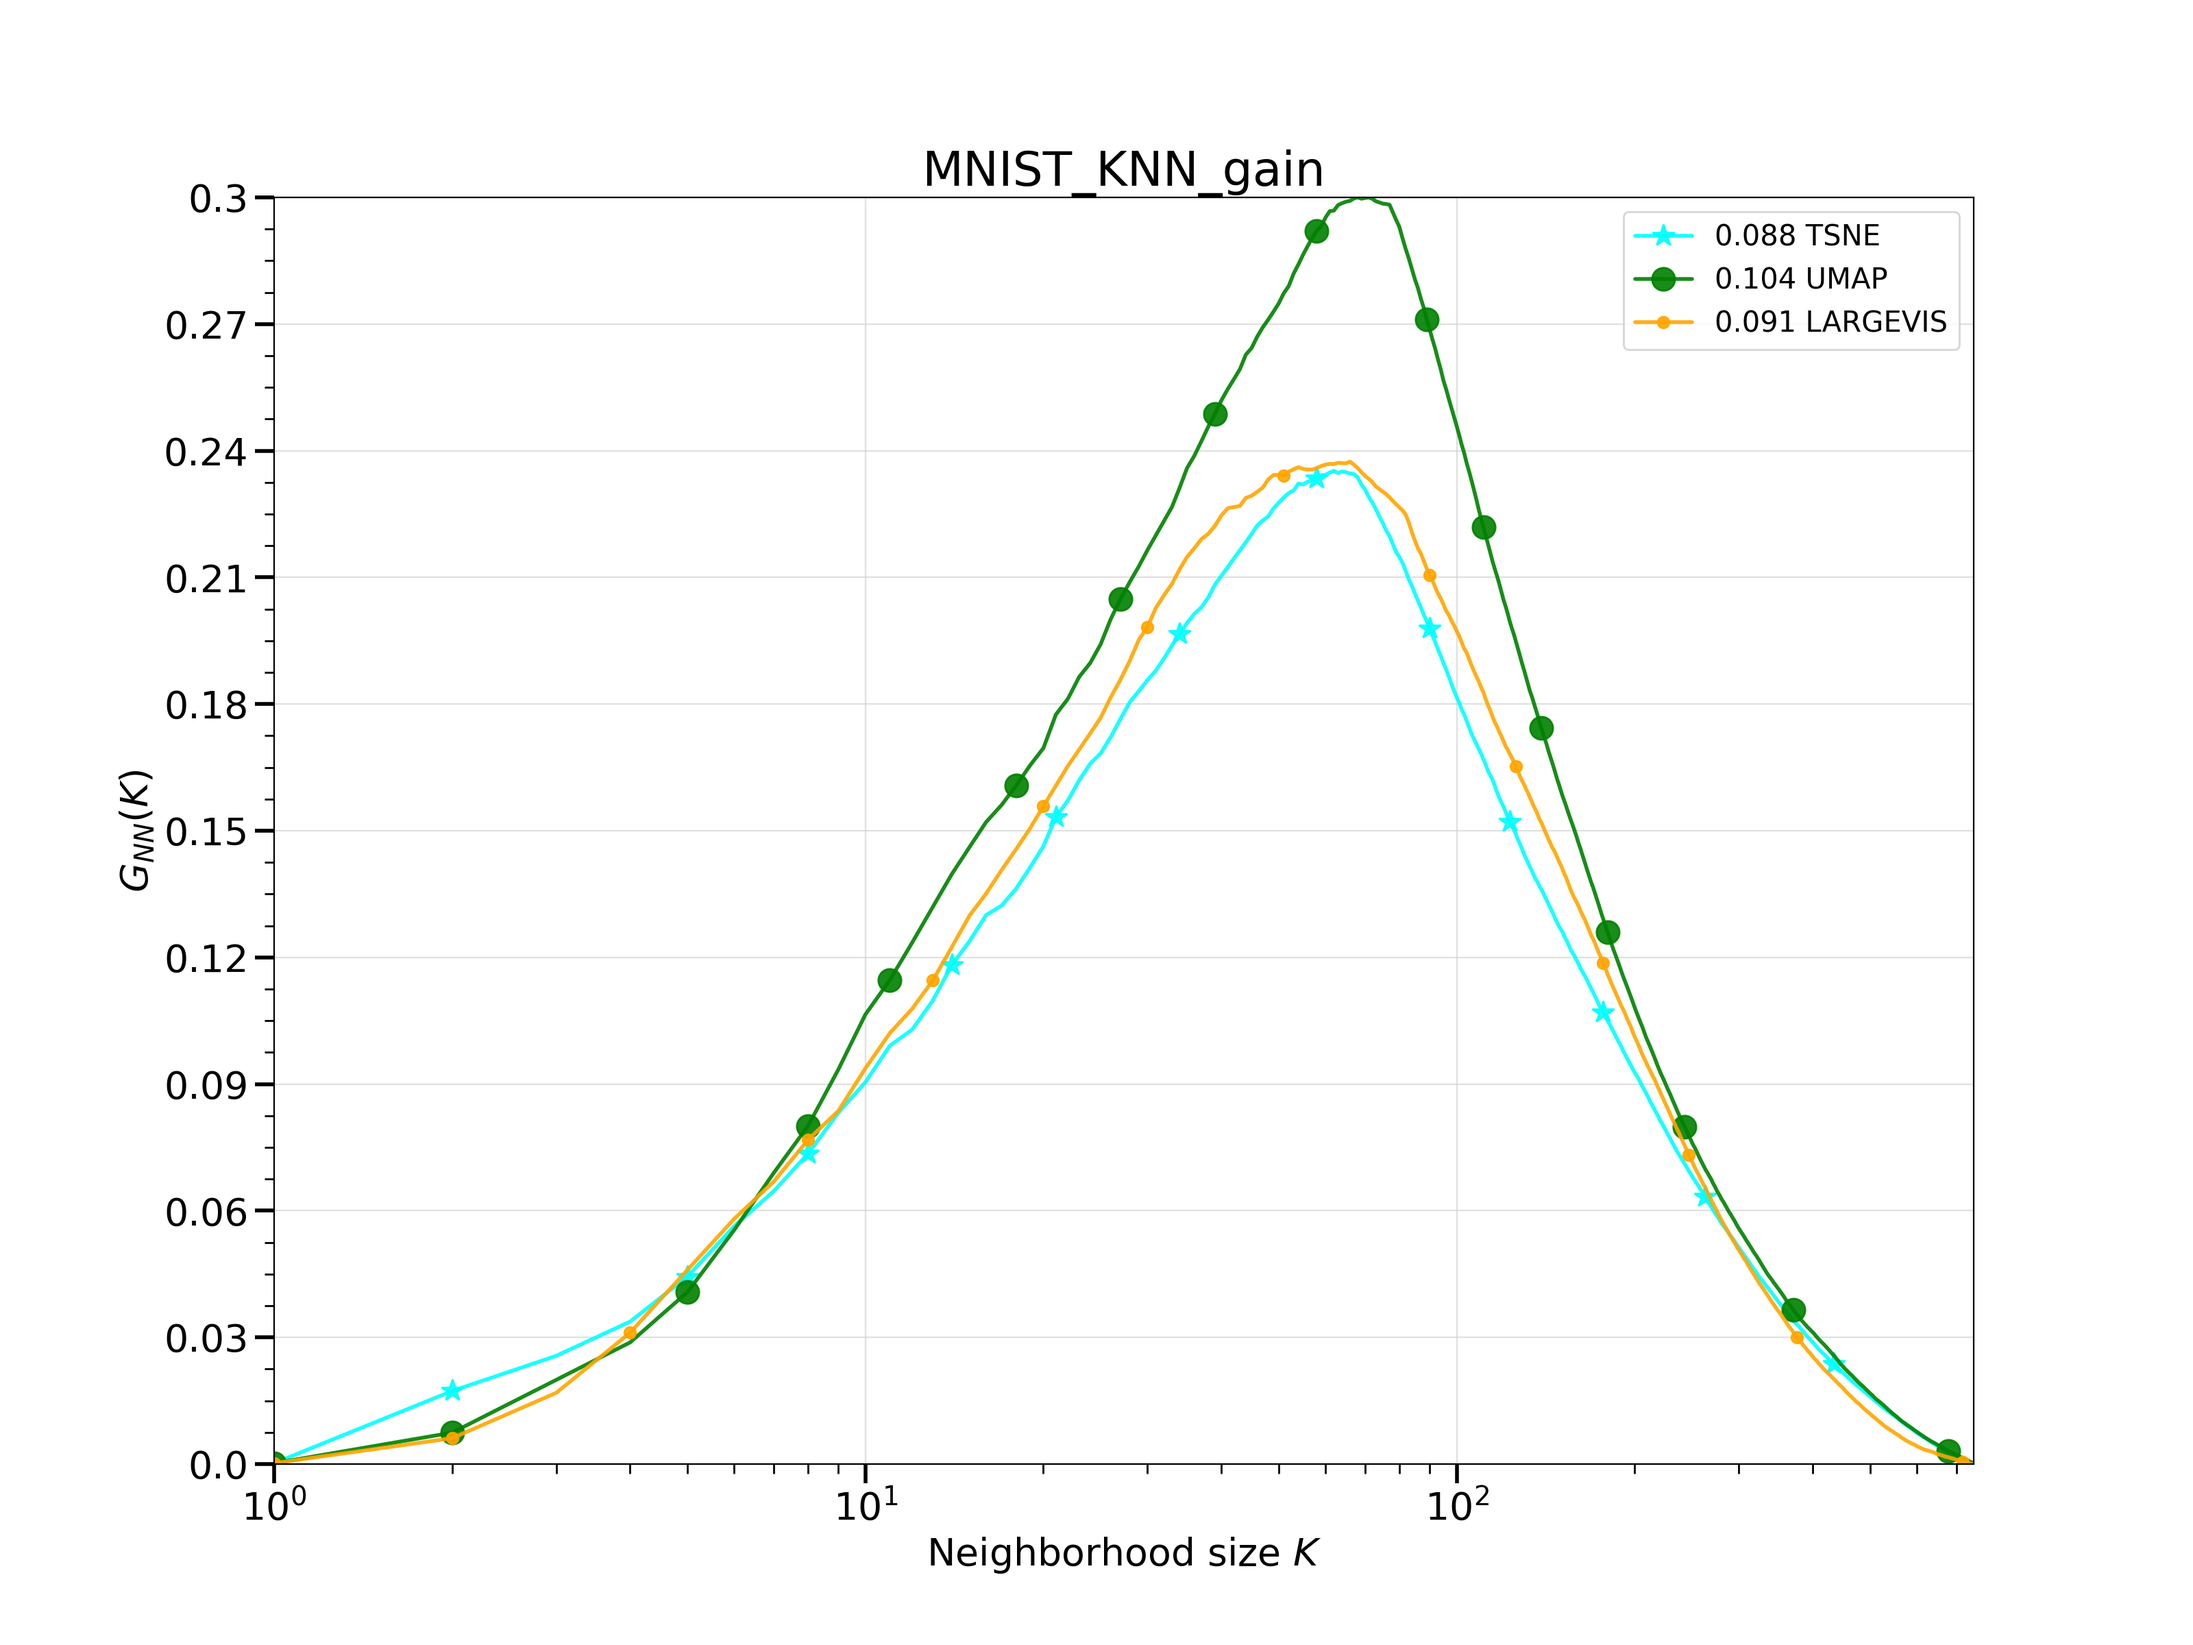
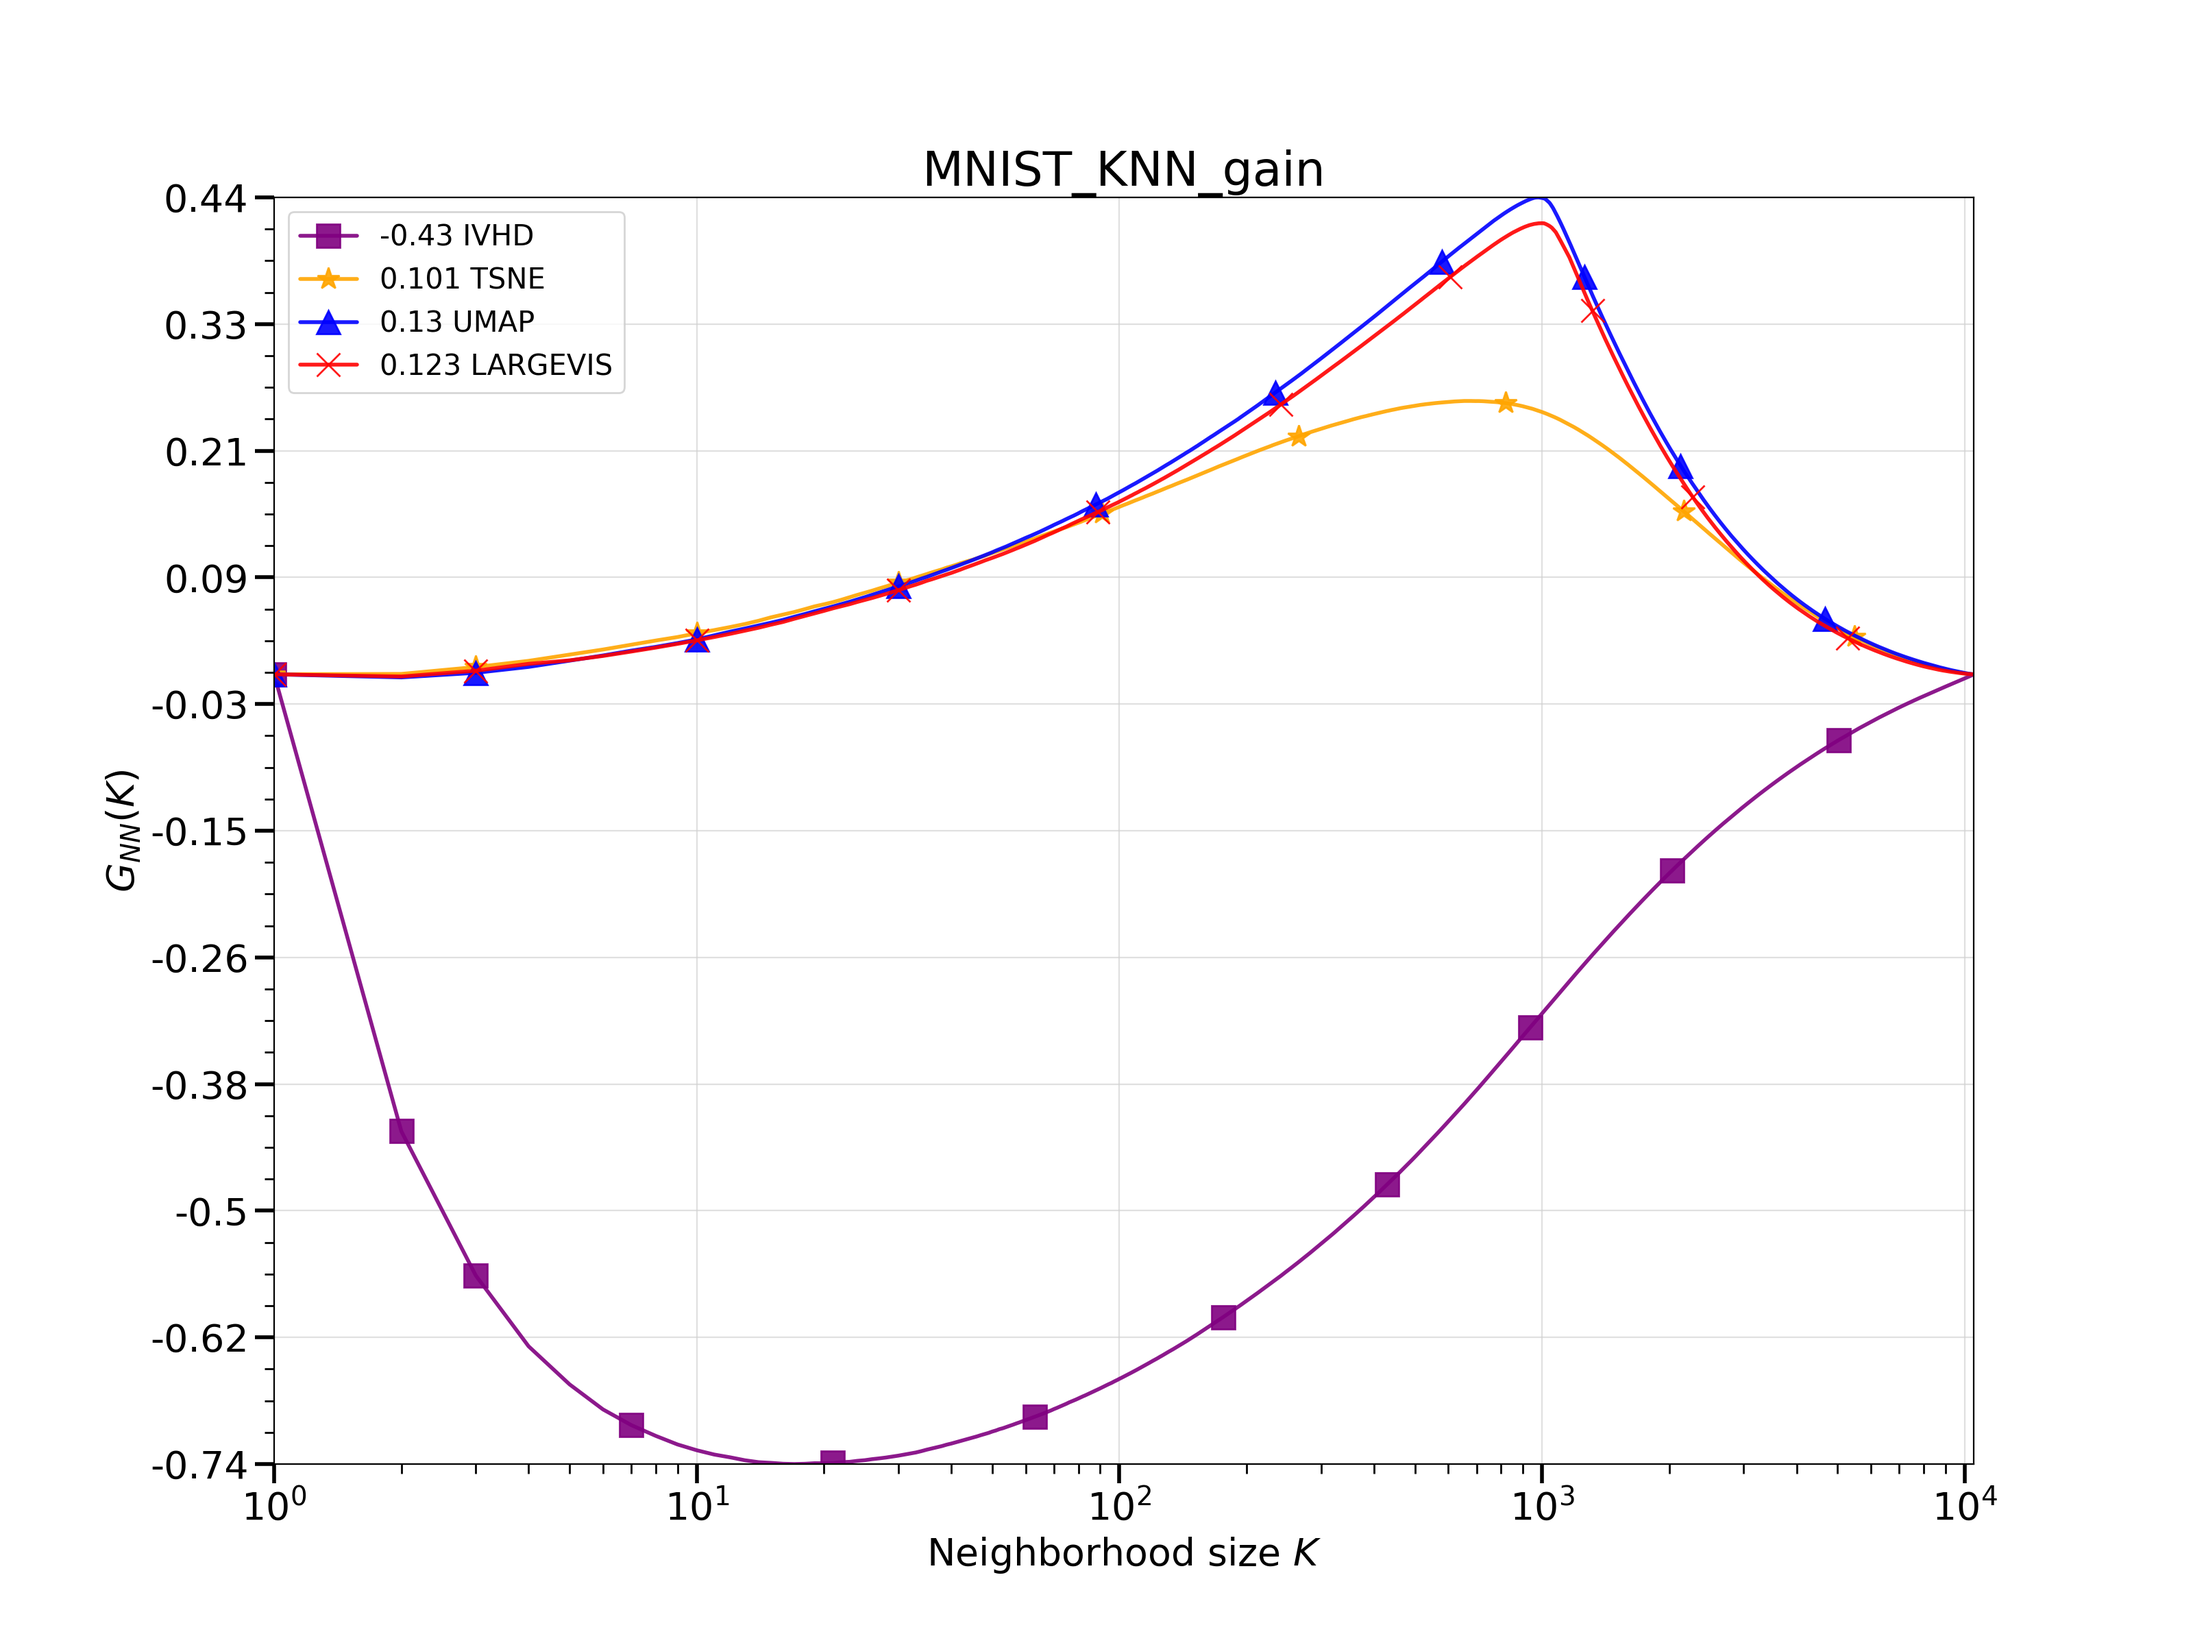
ADD: Reuters dataset & IVHD metric (#6)
* ADD: Reuters dataset & fix local metric

* ADD: Reuters & IVHD, fix cluster metric

* REFACTOR

* Fix: broken import

* ADD: ALl methods run on the whole mnist

diff --git a/bin/data_embedding/ivhd.py b/bin/data_embedding/ivhd.py
@@ -1,5 +1,58 @@
+import utils
+import pandas as pd
+import os
+
+def save_data_as_csv(data, filename):
+    with open(filename, 'w') as f:
+        f.truncate(0)
+        for i in range(1, data.shape[1] + 1):
+            f.write(f'{str(i)}')
+            if i != data.shape[1]:
+                f.write(',')
+        f.write('\n')
+        for idx_sample, sample in enumerate(data):
+            for idx, value in enumerate(sample):
+                f.write(f'{str(value)}')
+                if idx != len(sample) - 1:
+                    f.write(',')
+            if idx_sample != len(data) - 1:
+                f.write('\n')
+
+
+def save_target_as_csv(data, filename, with_shape=True):
+    with open(filename, 'w') as f:
+        f.truncate(0)
+        if with_shape:
+            f.write(f'{str(data.shape[0])} {str(data.shape[1])}\n')
+        for idx, feature in enumerate(data):
+            f.write(f'{str(feature)}')
+            if idx != len(data) - 1:
+                f.write('\n')
+
+
+graph_names = {
+    "MNIST": "mnist_cosine.bin"
+}
+
+arguments = {
+    "MNIST": '4000 2 1 1 0 0 0.01 force-directed'
+}
+
+input_x = 'input_X.csv'
+input_y = 'input_Y.csv'
+output = 'output.csv'
+
 
 def embed(dataset, labels, name):
-    # TO DO
+    core_path = './viskit/viskit_offline'
+    graph_name = graph_names[name]
+    argument = arguments[name]
+    save_data_as_csv(dataset, f'{core_path}/input/{input_x}')
+    save_target_as_csv(labels, f'{core_path}/input/{input_y}', False)
+    command = f'{core_path}/viskit_offline {core_path}/input/{input_x} ' \
+              f'{core_path}/input/{input_y} {core_path}/graphs/{graph_name} {core_path}/output/{output} {argument}'
+    os.system(command)
+    res = pd.read_csv(f'{core_path}/output/{output}').iloc[:, :2].to_numpy()
+    utils.save_plot_2d_scatter(res, labels, f"{name}_ivhd.png")
 
-    return []
+    return res

diff --git a/bin/main.py b/bin/main.py
@@ -1,17 +1,16 @@
 import utils
-from data_preprocessing import mnist, tng
-from data_embedding import tsne, umap, largevis
+from data_preprocessing import mnist, tng, reuters
+from data_embedding import tsne, umap, largevis, ivhd
 from metrics.local_score import LocalMetric
 from metrics.time_score import TimeScore
 from metrics.clustering_score import ClusterScore
-from metrics.spearman_score import SpearmanScore
+# from metrics.spearman_score import SpearmanScore
 
 
-
-methods = [tsne, umap, largevis]
-method_names = ["TSNE", "UMAP", "LARGEVIS"]
-datasets = [tng, mnist]
-dataset_names = ["20NG", "MNIST"]
+methods = [ivhd, tsne, umap, largevis]
+method_names = ["IVHD", "TSNE", "UMAP", "LARGEVIS"]
+datasets = [mnist]
+dataset_names = ["MNIST"]
 
 
 if __name__ == '__main__':
@@ -26,7 +25,7 @@ if __name__ == '__main__':
         local_metric = LocalMetric()
         time_metric = TimeScore(dataset_name)
         cluster_metric = ClusterScore(dataset_name)
-        spearman_metric = SpearmanScore(dataset_name, values)
+        # spearman_metric = SpearmanScore(dataset_name, values) # removing because it's taking forever to calculate
 
         for method, method_name in zip(methods, method_names):
             print(f"{method_name} embedding...")
@@ -42,10 +41,10 @@ if __name__ == '__main__':
                 method_name=method_name
             )
             cluster_metric.calculate_cluster_score(output, labels, method_name)
-            spearman_metric.calculate_score(output, method_name)
+            # spearman_metric.calculate_score(output, method_name)
 
         # Metrics comparison
         local_metric.visualize(dataset_name)
         time_metric.visualize()
         cluster_metric.visualize()
-        spearman_metric.visualize()
+        # spearman_metric.visualize()

diff --git a/bin/metrics/clustering_score.py b/bin/metrics/clustering_score.py
@@ -25,8 +25,12 @@ class ClusterScore():
         means = []
         for label in unique_labels:
             label_points = data[labels == label]
+
             random_idxs_size = int(label_points.shape[0]*self.coverage)
             random_idxs = np.random.randint(label_points.shape[0], size=random_idxs_size)
+            if random_idxs_size < 2:
+                means.append(0)
+                continue
             label_points = label_points[random_idxs, :]
             distances = distance_matrix(label_points, label_points)
             distances = MinMaxScaler().fit_transform(distances)

diff --git a/bin/data_preprocessing/reuters.py b/bin/data_preprocessing/reuters.py
@@ -1,0 +1,10 @@
+import pandas as pd
+import numpy as np
+
+
+def get_data(size):
+    reuters = pd.read_csv('data/reuters.csv', names=([i for i in range(30)] + ['labels']))
+    reuters_labels = np.array(reuters['labels'])
+    reuters.pop('labels')
+    reuters_values = np.array(reuters)
+    return reuters_values[:size], reuters_labels[:size]

diff --git a/README.md b/README.md
@@ -38,8 +38,8 @@ Compile and put compiled version inside `Largevis` directory.
 
 ```
 git clone https://github.com/lferry007/LargeVis.git
-cd LargeVis
-g++ LargeVis.cpp main.cpp -o LargeVis -lm -pthread -lgsl -lgslcblas -Ofast [-march=native | -mcpu=apple-m1] -ffast-math -L<PATH TO GSL LIB> -I<PATH TO GSL INCLUDE>
+cd LargeVis/Linux
+g++ LargeVis.cpp main.cpp -o LargeVis -lm -pthread -lgsl -lgslcblas -Ofast -ffast-math
 ```
 
 ## IVHD
